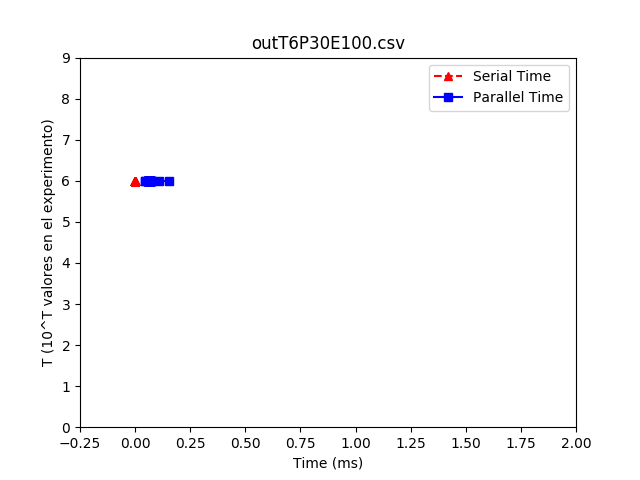
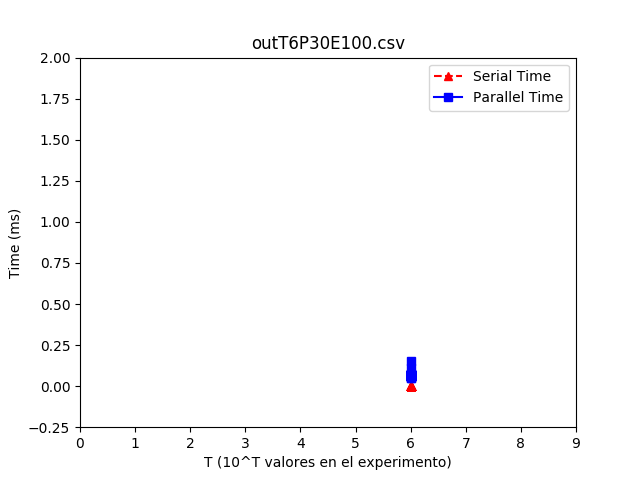
change images

diff --git a/graficos.py b/graficos.py
@@ -27,11 +27,11 @@ def read_and_load_graph(file, title):
         parallel += float(arr[3])*1000
     serial = serial/100
     parallel = parallel/100
-    plt.ylabel('T (10^T valores en el experimento)')
-    plt.xlabel('Time (ms)')
-    plt.axis([-0.25, 2, 0, 9])
-    plt.plot(serial_l, exp_l, "r^--", label="Serial Time")
-    plt.plot(parallel_l, exp_l, "bs-", label="Parallel Time")
+    plt.xlabel('T (10^T valores en el experimento)')
+    plt.ylabel('Time (ms)')
+    plt.axis([0, 9, -0.25, 2])
+    plt.plot(exp_l, serial_l, "r^--", label="Serial Time")
+    plt.plot(exp_l, parallel_l, "bs-", label="Parallel Time")
     plt.title(title)
     plt.legend()
     plt.show()
